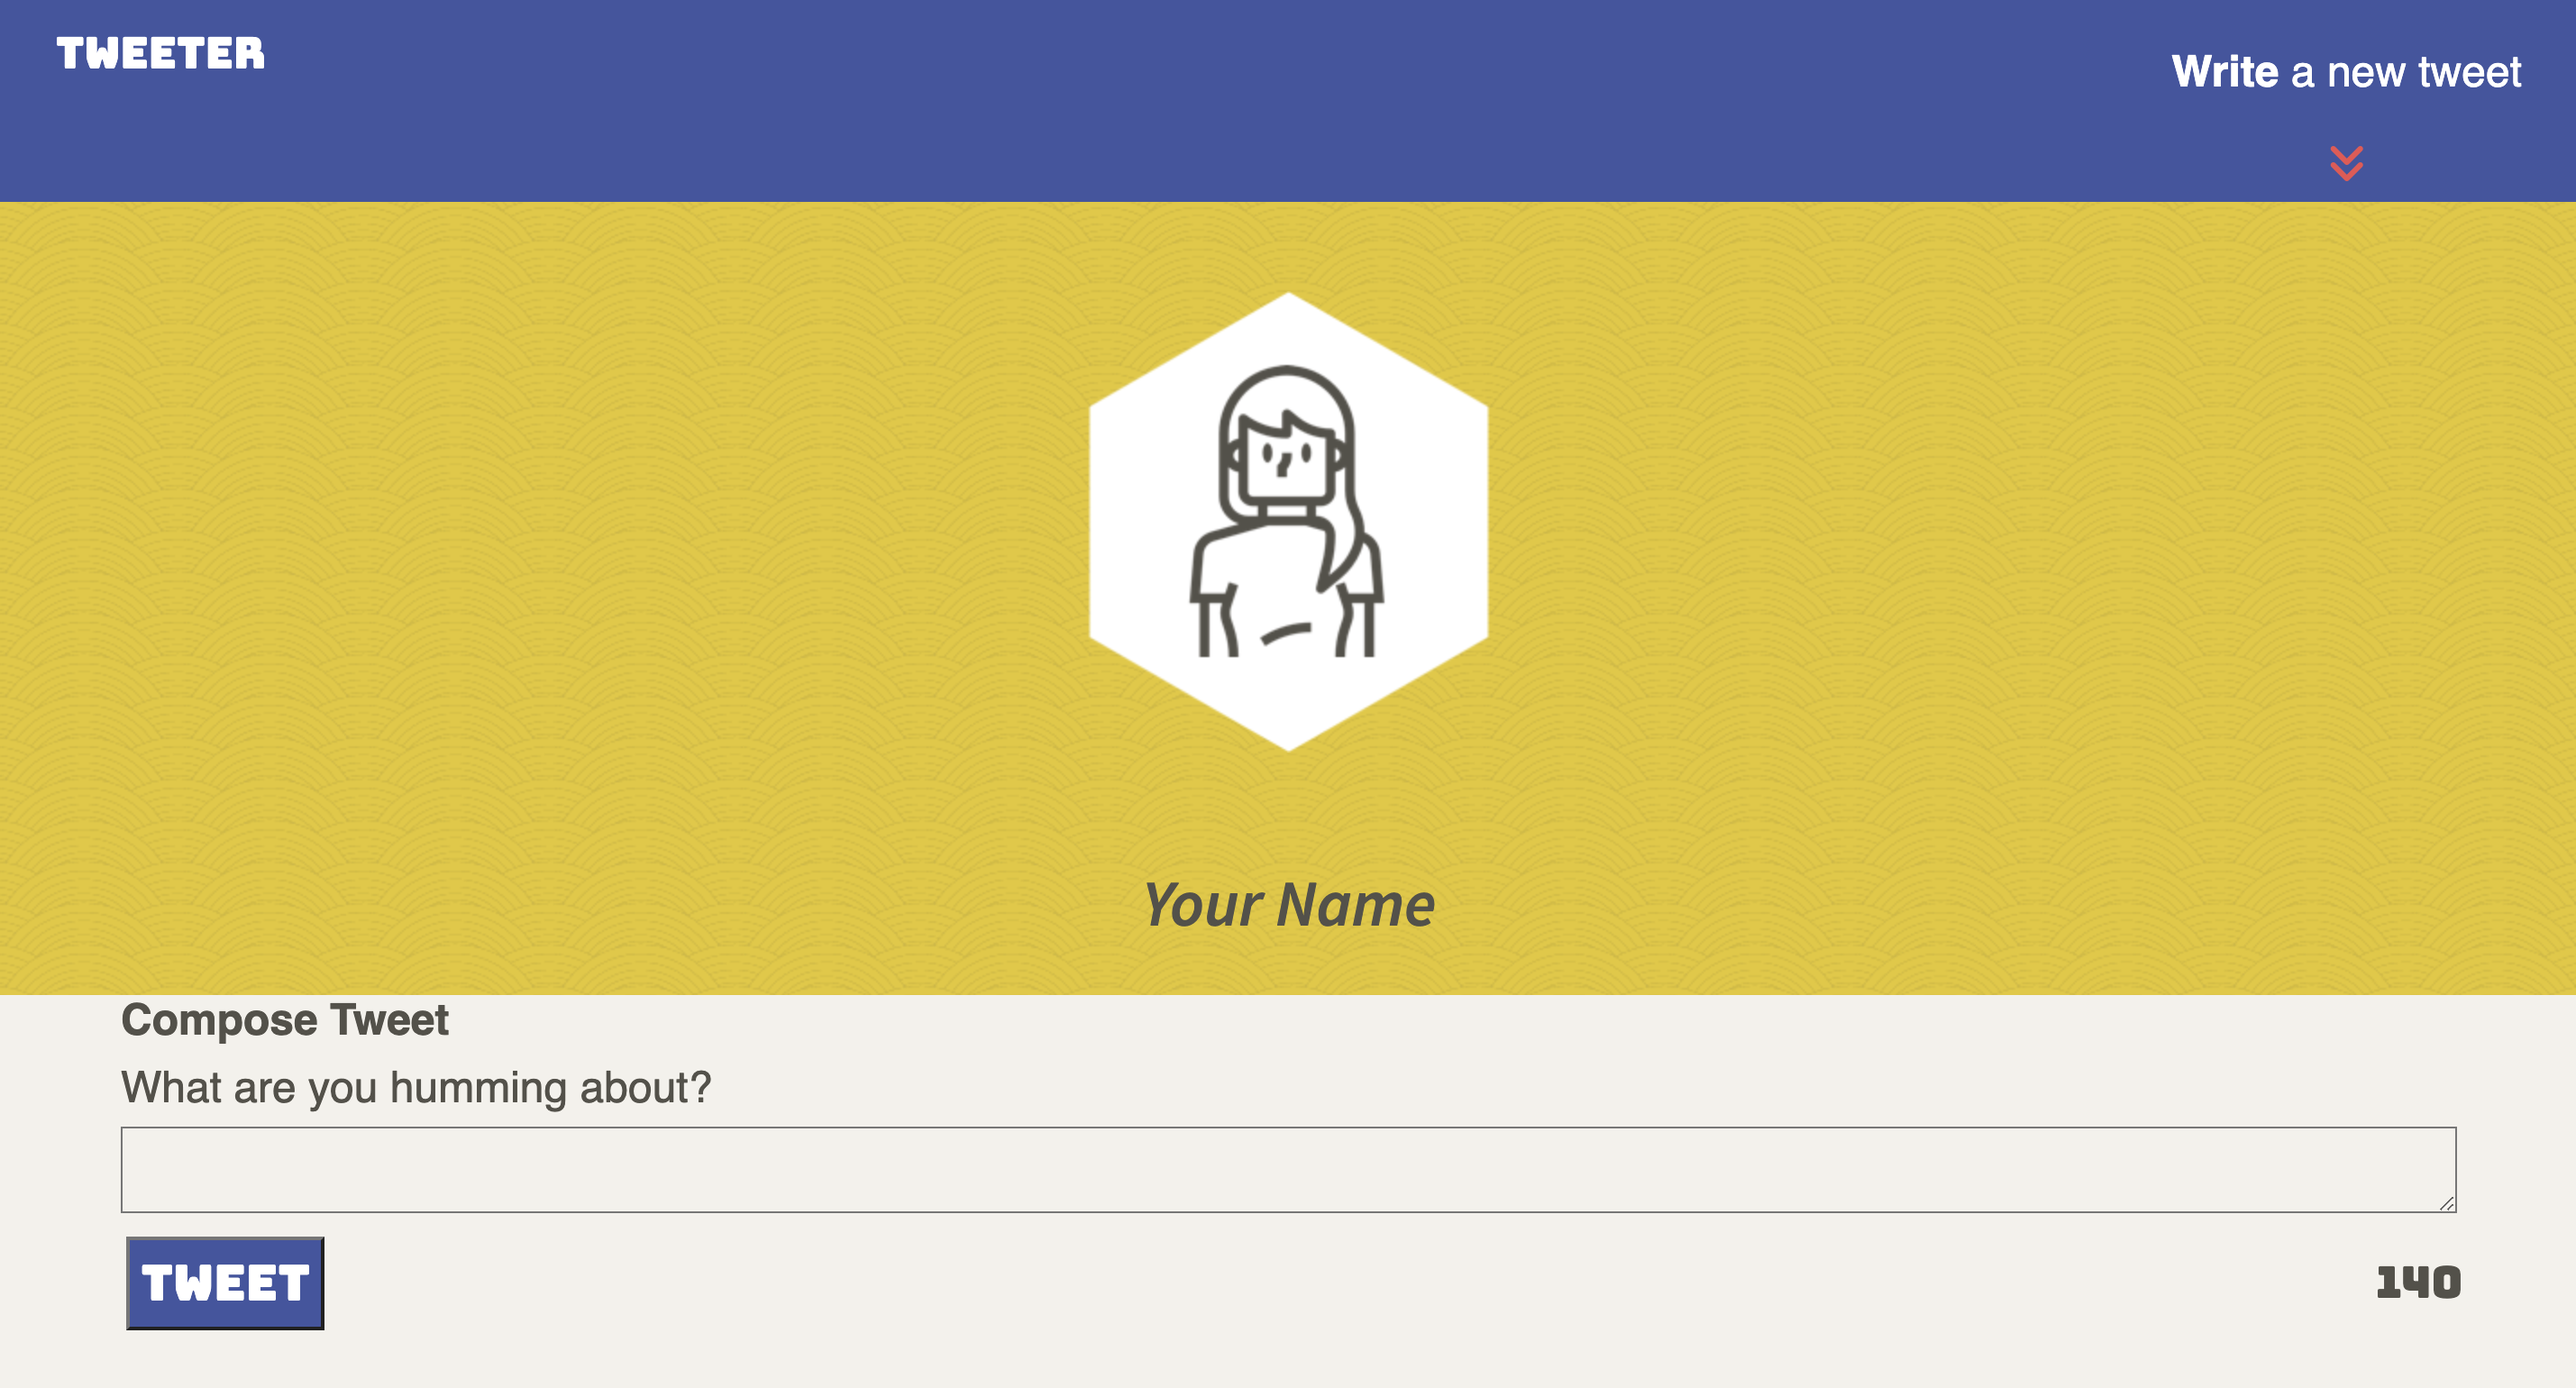
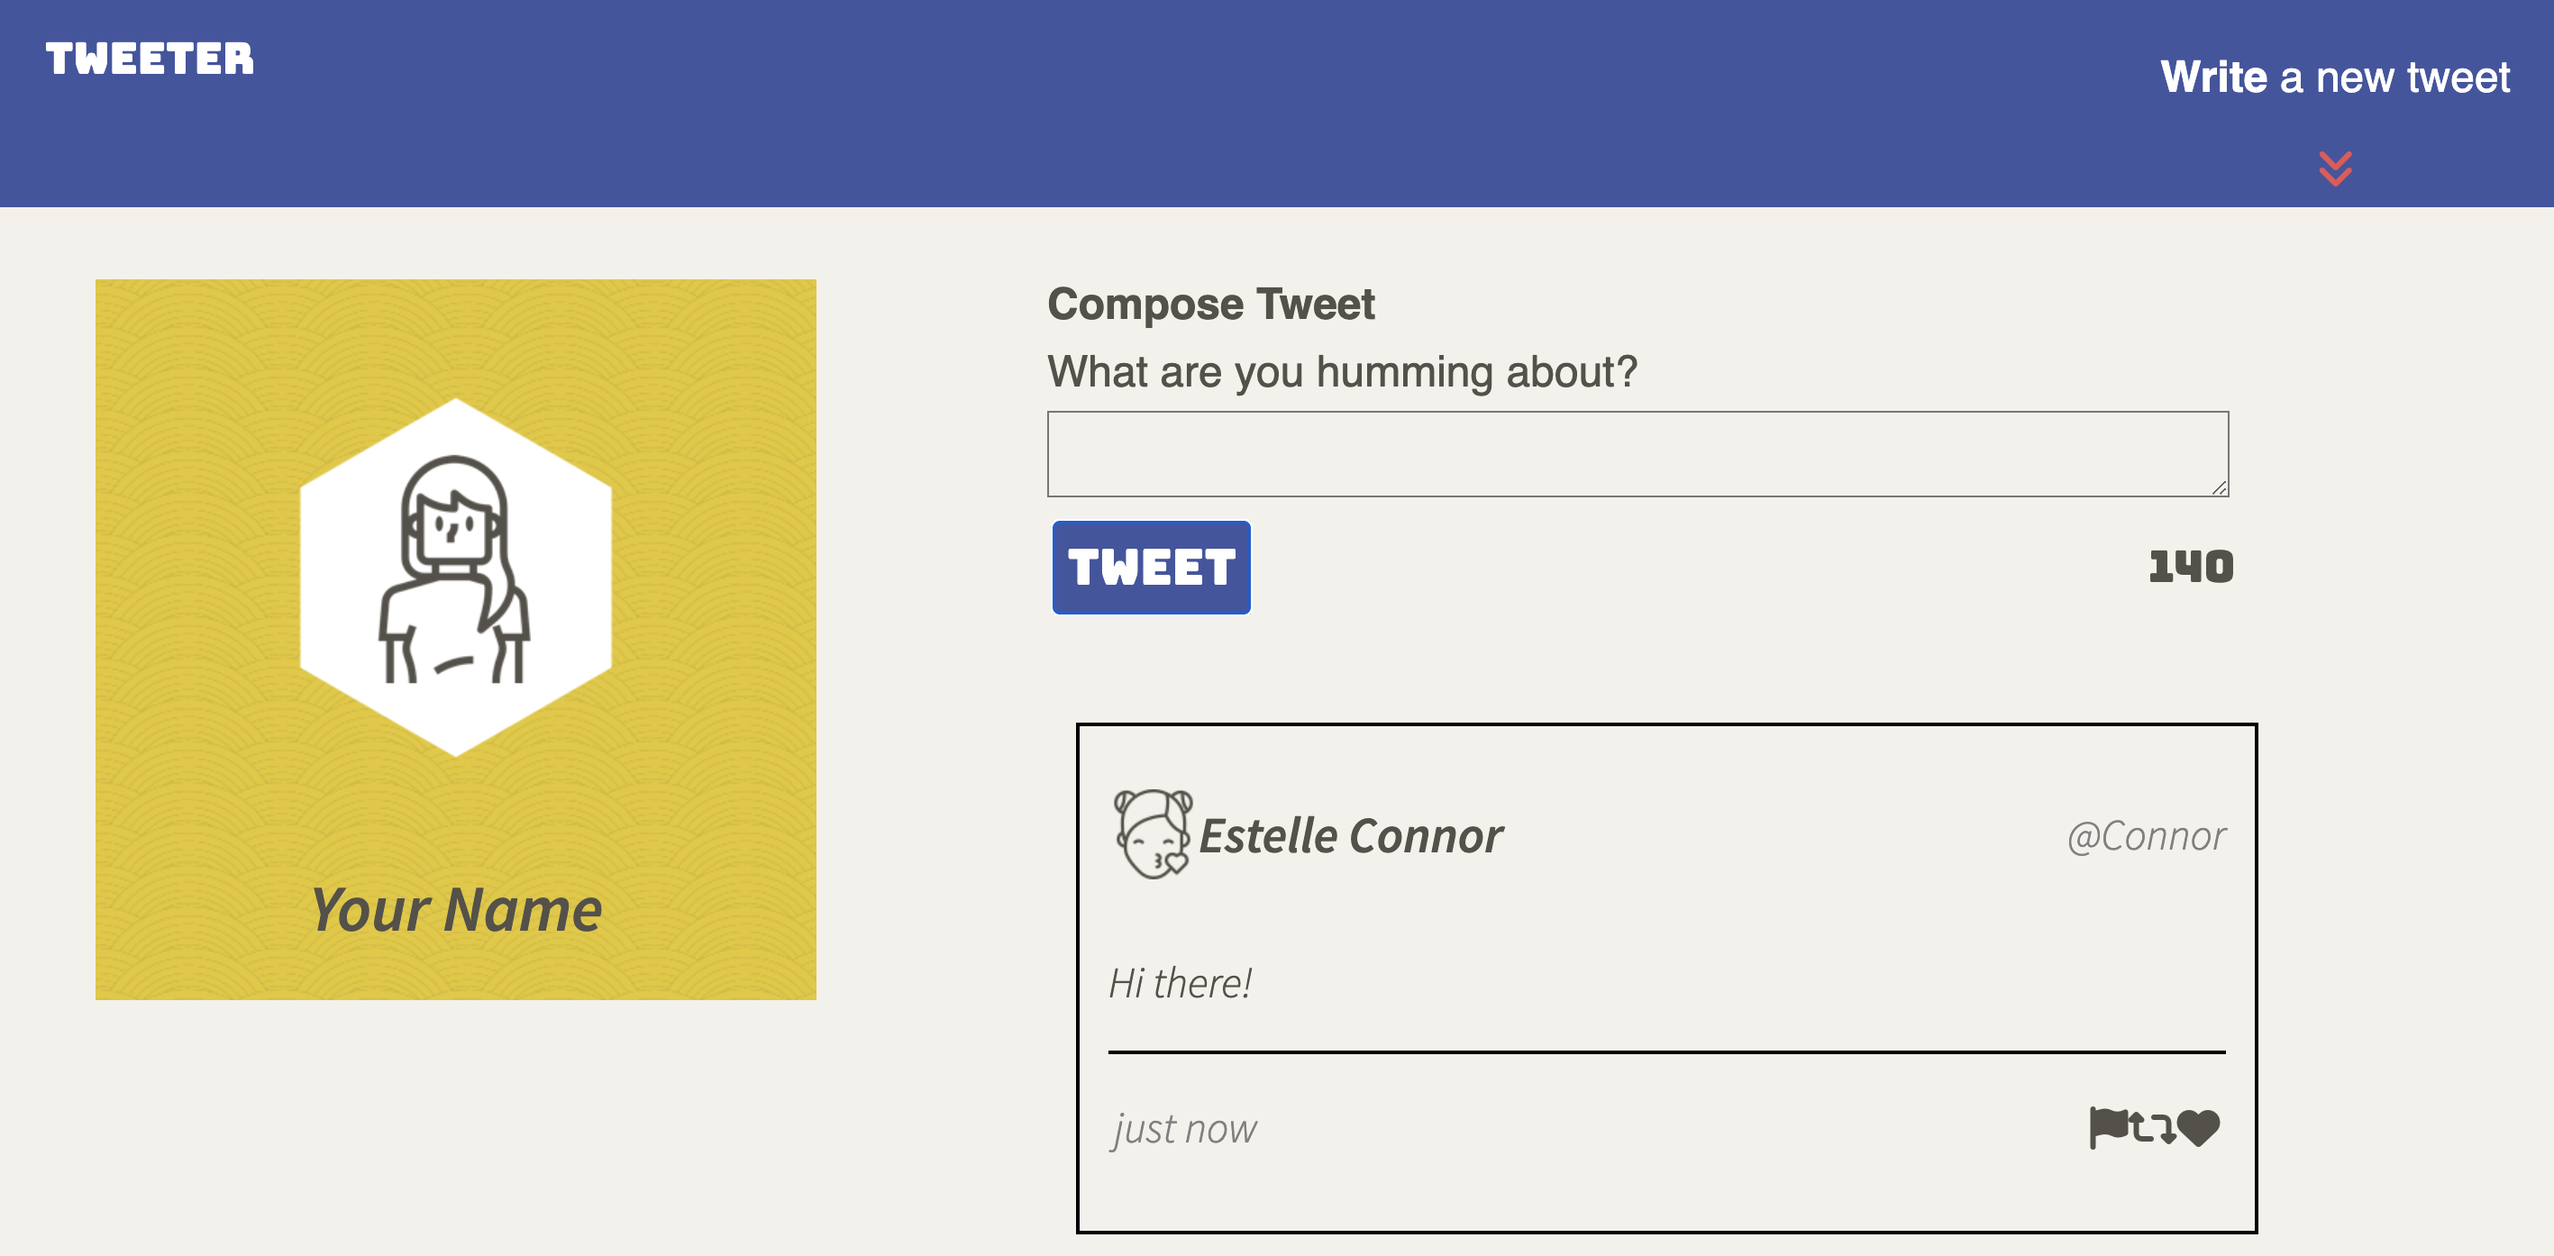
update layout and image

diff --git a/public/styles/layout.css b/public/styles/layout.css
@@ -42,19 +42,7 @@ main {
     margin: 0;
     margin-bottom: 1rem;
   }
-  /* .feature {
-    width: 33.3%;
-    line-height: 600px;
-  } */
-
-  /* .content {
-    width: 66.7%;
-    float: right
-  }
-
-  .footer {
-    clear: right;
-  } */
+  
 }
 
 /* Desktop styles */
@@ -81,33 +69,5 @@ main {
   .container {
     width: 50%;
   }
-  /* .hero {
-    width: 33.3%;
-    float: left;
-  }
 
-  .feature {
-    line-height: 300px;
-  }
-
-  .menu {
-    background-color: #111111;
-    color: #f0f0f0;
-    text-align: left;
-  }
-
-  .tagline {
-    display: inline;
-    font-style: italic;
-    font-weight: normal;
-    font-size: 12px;
-    color: tomato;
-    float: right;
-  }
-
-  .main {
-    max-width: 1024px;
-    font-size: 16px;
-    margin: 0 auto;
-  } */
 }
